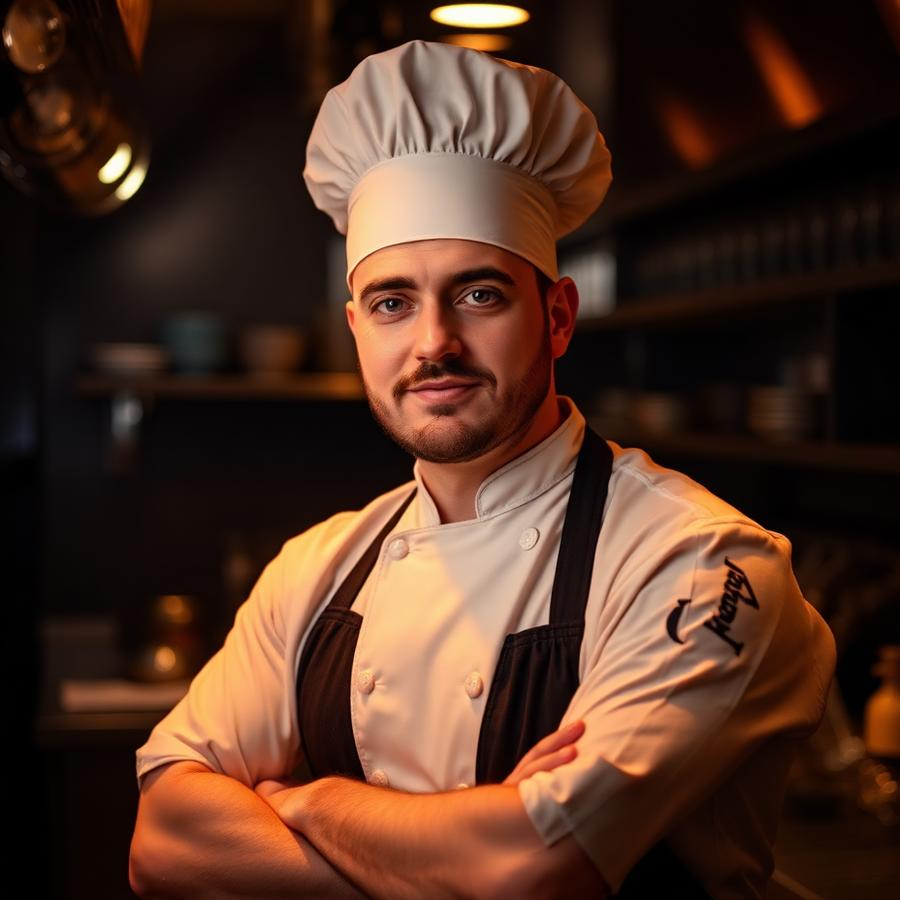
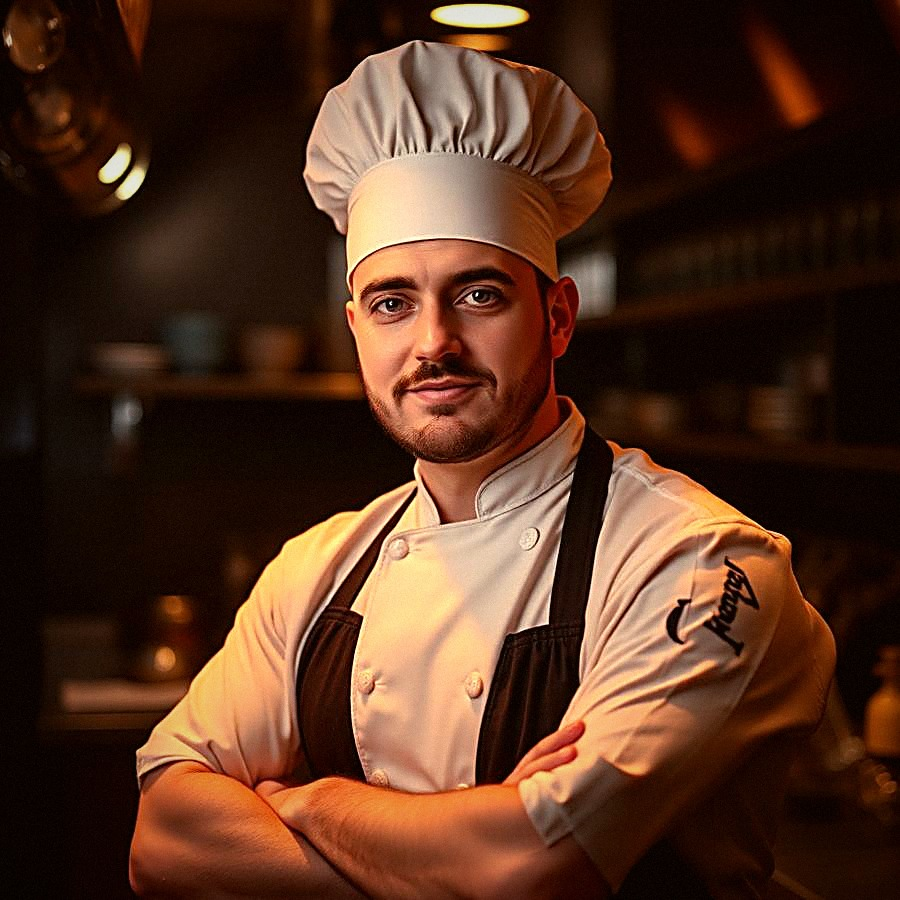
Melhora identidade visual do site

diff --git a/src/components/hero/Plate.tsx b/src/components/hero/Plate.tsx
@@ -1,0 +1,48 @@
+import { motion } from "motion/react";
+
+import { EASE } from "@/lib/motion";
+
+interface Props {
+  reduceMotion: boolean;
+  delay: number;
+}
+
+/**
+ * The ceramic plate the dish lands on. Pure CSS gradients + shadows (no
+ * image asset), so it themes off the same tokens as everything else and
+ * costs nothing to render. Sits in the DOM before the dish image, so it
+ * naturally paints underneath it — no explicit z-index needed.
+ */
+export function Plate({ reduceMotion, delay }: Props) {
+  return (
+    <motion.div
+      aria-hidden="true"
+      className="absolute inset-[9%] rounded-full"
+      style={{
+        background:
+          "radial-gradient(circle at 34% 26%, color-mix(in oklab, var(--surface-2) 88%, white 12%), var(--surface-2) 42%, color-mix(in oklab, var(--surface) 88%, black 12%) 100%)",
+        boxShadow:
+          "0 34px 60px -18px rgba(0,0,0,0.65), 0 4px 14px rgba(0,0,0,0.35), inset 0 2px 4px rgba(255,255,255,0.08), inset 0 -14px 26px rgba(0,0,0,0.4)",
+      }}
+      initial={reduceMotion ? false : { opacity: 0, scale: 0.72 }}
+      animate={{ opacity: 1, scale: 1 }}
+      transition={reduceMotion ? { duration: 0 } : { delay, duration: 0.75, ease: EASE.organic }}
+    >
+      {/* hairline gold rim, just inside the plate's outer edge */}
+      <div
+        className="absolute inset-[4%] rounded-full"
+        style={{
+          boxShadow: "inset 0 0 0 1px color-mix(in oklab, var(--gold) 45%, transparent)",
+        }}
+      />
+      {/* the well — a soft inner shadow where the food actually sits */}
+      <div
+        className="absolute inset-[16%] rounded-full"
+        style={{
+          background: "radial-gradient(circle at 38% 30%, rgba(255,255,255,0.05), transparent 62%)",
+          boxShadow: "inset 0 14px 22px rgba(0,0,0,0.5), inset 0 -6px 14px rgba(255,255,255,0.05)",
+        }}
+      />
+    </motion.div>
+  );
+}

diff --git a/src/components/hero/PlateRing.tsx b/src/components/hero/PlateRing.tsx
@@ -1,0 +1,55 @@
+import { motion } from "motion/react";
+
+interface Props {
+  reduceMotion: boolean;
+  delay: number;
+}
+
+/**
+ * The "forming border" moment from first load — a thin gold ring that
+ * draws itself around the plate — except here it never stops. It draws,
+ * holds a beat, fades, pauses, and draws again, forever, at a slow and
+ * quiet pace so it reads as ambience rather than a loading spinner.
+ */
+export function PlateRing({ reduceMotion, delay }: Props) {
+  if (reduceMotion) {
+    return (
+      <svg
+        aria-hidden="true"
+        viewBox="0 0 100 100"
+        className="pointer-events-none absolute inset-[7%] opacity-40"
+      >
+        <circle cx="50" cy="50" r="47" fill="none" stroke="var(--gold)" strokeWidth="0.6" />
+      </svg>
+    );
+  }
+
+  return (
+    <svg
+      aria-hidden="true"
+      viewBox="0 0 100 100"
+      className="pointer-events-none absolute inset-[7%] -rotate-90"
+    >
+      <motion.circle
+        cx="50"
+        cy="50"
+        r="47"
+        fill="none"
+        stroke="var(--gold)"
+        strokeWidth="0.55"
+        strokeLinecap="round"
+        style={{ filter: "drop-shadow(0 0 5px var(--gold))" }}
+        initial={{ pathLength: 0, opacity: 0 }}
+        animate={{ pathLength: [0, 1, 1, 0], opacity: [0, 0.85, 0.85, 0] }}
+        transition={{
+          delay,
+          duration: 5.2,
+          times: [0, 0.42, 0.78, 1],
+          repeat: Infinity,
+          repeatDelay: 1.8,
+          ease: "easeInOut",
+        }}
+      />
+    </svg>
+  );
+}

diff --git a/src/components/hero/PlateAnimation.tsx b/src/components/hero/PlateAnimation.tsx
@@ -11,6 +11,8 @@ import parmesan from "@/assets/ing-parmesan.webp";
 import pepper from "@/assets/ing-pepper.webp";
 
 import { Ingredient, type IngredientPiece } from "./Ingredient";
+import { Plate } from "./Plate";
+import { PlateRing } from "./PlateRing";
 import { ShineEffect } from "./ShineEffect";
 import { SeasoningParticles } from "./SeasoningParticles";
 import { EASE } from "@/lib/motion";
@@ -151,6 +153,8 @@ export function PlateAnimation({ reduceMotion, dishTiltX, dishTiltY }: PlateAnim
   const pace = isMobile ? 0.62 : 1;
   const pieces = isMobile ? MOBILE_PIECES : DESKTOP_PIECES;
 
+  // the plate is set down first — everything else lands on top of it
+  const plateDelay = 0.05 * pace;
   const dishDelay = 0.2 * pace;
   const gap = (isMobile ? 0.22 : 0.3) * pace;
   const firstBeat = 0.55 * pace;
@@ -182,6 +186,10 @@ export function PlateAnimation({ reduceMotion, dishTiltX, dishTiltY }: PlateAnim
             }
       }
     >
+      {/* the plate — set down first, dish and garnish land on top of it */}
+      <Plate reduceMotion={reduceMotion} delay={plateDelay} />
+      <PlateRing reduceMotion={reduceMotion} delay={particlesDelay + 0.5} />
+
       {/* the foundation — dish drops in first, everything else lands on it */}
       <motion.img
         src={dish}

diff --git a/src/components/sections/Reservation.tsx b/src/components/sections/Reservation.tsx
@@ -207,6 +207,11 @@ export function Reservation() {
             <CalendarCheck className="size-4 transition-transform duration-500 group-hover:-rotate-6" />
             {isSubmitting ? "Enviando…" : "Confirmar reserva"}
           </MagneticButton>
+
+          <p className="text-center text-[0.7rem] leading-relaxed text-muted-foreground/70 sm:col-span-2">
+            Os dados informados neste formulário são coletados exclusivamente para o registro e a
+            confirmação da sua reserva.
+          </p>
         </motion.form>
       </div>
     </section>
